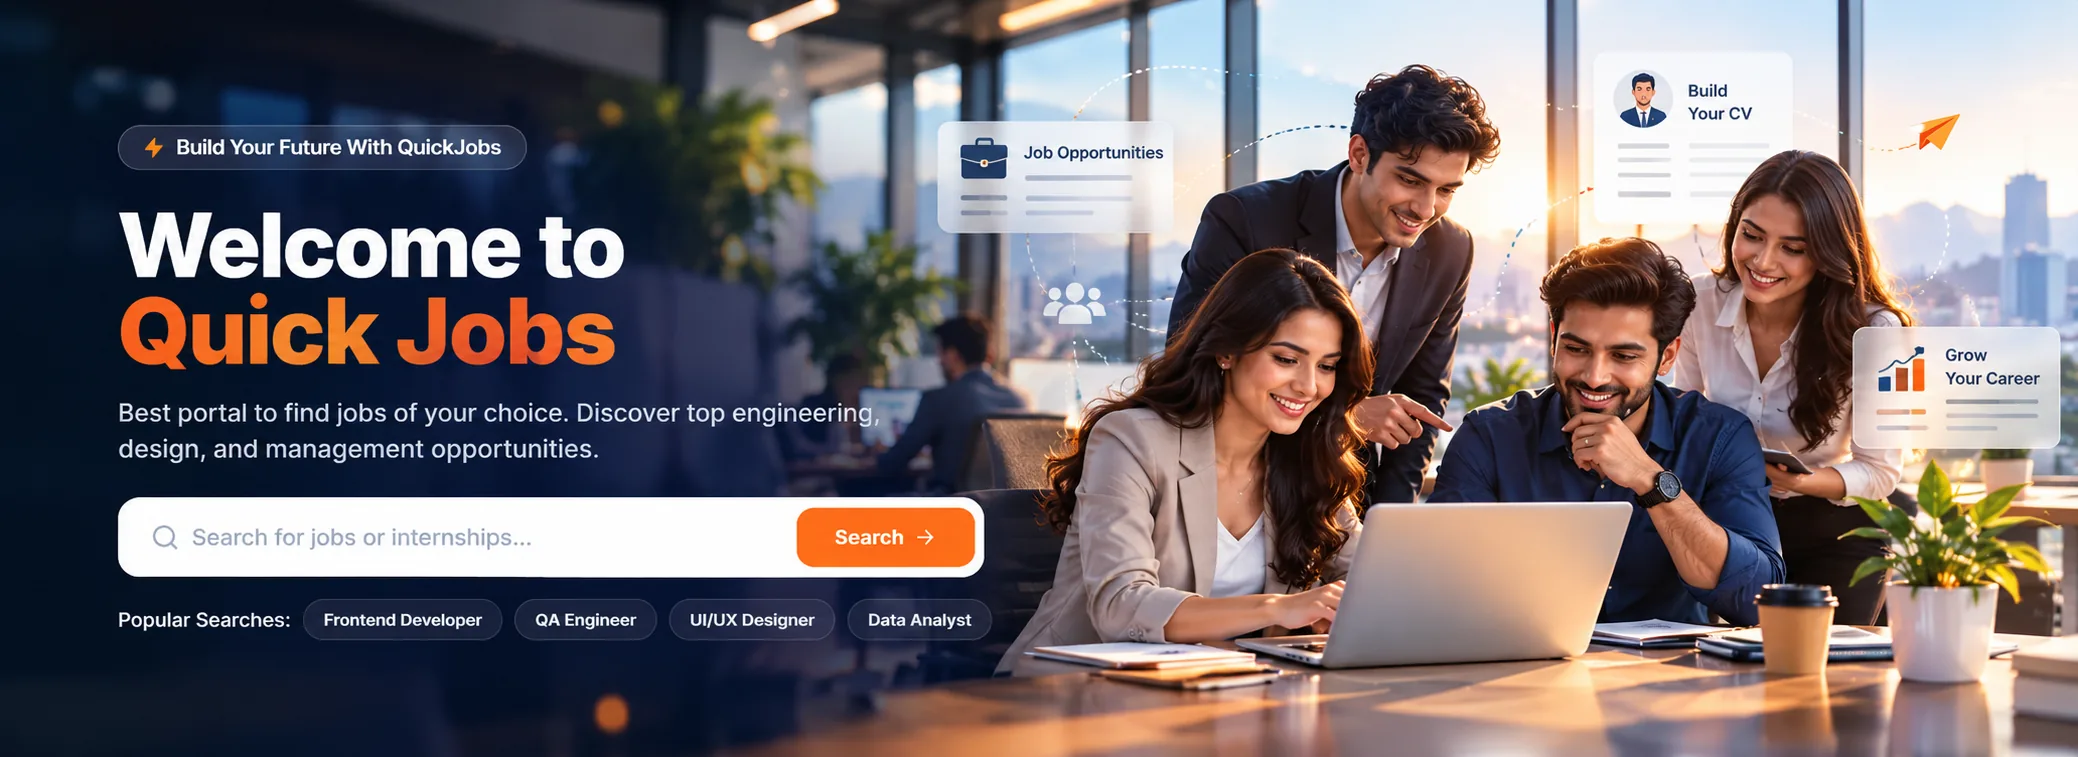
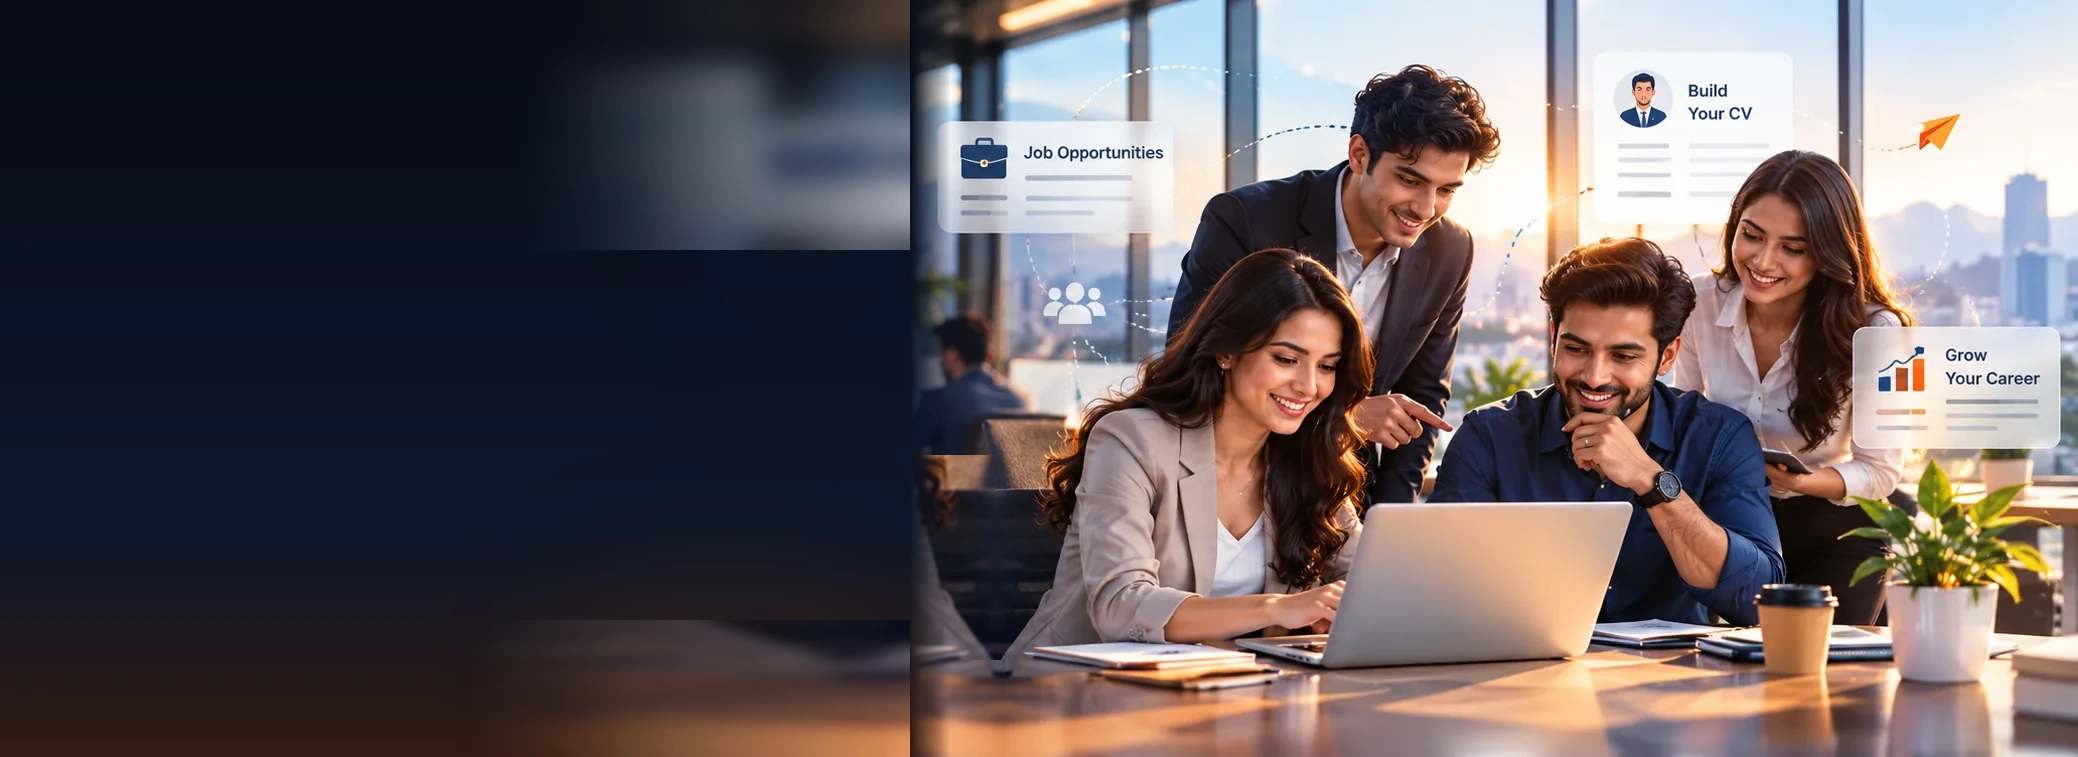
Use register visual in login page, polish auth UI, and clean hero background

Changed region(s): [[0.0, 0.0, 0.4928, 1.0]]

diff --git a/frontend/src/components/auth/Login.tsx b/frontend/src/components/auth/Login.tsx
@@ -7,18 +7,13 @@ import {
   Lock, 
   ArrowRight, 
   Loader2, 
-  Sparkles, 
-  CheckCircle2,
-  Building2
 } from 'lucide-react';
+import registerVisual from '../../assets/authImages/registerVisual.png';
 import googleIcon from '../../assets/authImages/google.png';
 import Logo from '../../assets/quickjobs.png';
 import { loginUser } from './authApi/authApi';
 
 const API_BASE_URL = import.meta.env.VITE_API_BASE_URL || 'https://qj.onrender.com';
-
-// Professional Unsplash Workspace Image
-const PROFESSIONAL_BG_IMAGE = 'https://images.unsplash.com/photo-1522071820081-009f0129c71c?q=80&w=1200&auto=format&fit=crop';
 
 const Login: React.FC = () => {
   const navigate = useNavigate();
@@ -40,9 +35,6 @@ const Login: React.FC = () => {
       const response = await loginUser(formData);
 
       localStorage.setItem('token', response.token);
-      // Sidebar shows the logged-in admin's email (see useAdminAuth.ts) —
-      // the JWT itself only carries {id, role}, not email/name, so those
-      // need to be captured here from the login response body instead.
       if (response.email) localStorage.setItem('adminEmail', response.email);
       if (response.name) localStorage.setItem('adminName', response.name);
       window.dispatchEvent(new Event('authChange'));
@@ -99,65 +91,42 @@ const Login: React.FC = () => {
       
       {/* Subtle Background Glows */}
       <div className="absolute inset-0 overflow-hidden pointer-events-none z-0">
-        <div className="absolute top-1/4 -left-20 w-80 h-80 bg-amber-600/15 rounded-full blur-[120px]" />
+        <div className="absolute top-1/4 -left-20 w-80 h-80 bg-orange-600/15 rounded-full blur-[130px]" />
         <div className="absolute bottom-10 right-0 w-96 h-96 bg-blue-600/15 rounded-full blur-[140px]" />
         <div className="absolute inset-0 bg-[linear-gradient(to_right,#1e293b12_1px,transparent_1px),linear-gradient(to_bottom,#1e293b12_1px,transparent_1px)] bg-[size:3rem_3rem] [mask-image:radial-gradient(ellipse_60%_50%_at_50%_50%,#000_70%,transparent_100%)]" />
       </div>
 
       {/* Main Glassmorphism Form Card */}
-      <div className="relative z-10 w-full max-w-4xl bg-slate-900/80 backdrop-blur-2xl border border-slate-800/80 rounded-[24px] shadow-2xl shadow-black/80 overflow-hidden flex flex-col md:flex-row my-auto">
+      <div className="relative z-10 w-full max-w-5xl bg-[#0d131f]/90 backdrop-blur-2xl border border-slate-800/80 rounded-[28px] shadow-2xl shadow-black/80 overflow-hidden flex flex-col lg:flex-row my-auto">
         
-        {/* Left Column (Hero Image & Badge) */}
-        <div className="hidden md:flex md:w-[45%] relative overflow-hidden border-r border-slate-800/80 flex-col justify-between p-6 lg:p-8">
-          
-          <img
-            src={PROFESSIONAL_BG_IMAGE}
-            alt="Modern Workspace"
-            className="absolute inset-0 w-full h-full object-cover object-center transition-transform duration-700 hover:scale-105"
-          />
-
-          <div className="absolute inset-0 bg-gradient-to-t from-[#0B0F17] via-[#0B0F17]/70 to-[#0B0F17]/30 z-10" />
-
-          {/* Top Badge */}
-          <div className="relative z-20 flex items-center">
-            <div className="inline-flex items-center gap-2 px-3 py-1 rounded-full bg-slate-900/90 border border-slate-700/60 text-xs font-semibold text-slate-200 backdrop-blur-md shadow-md">
-              <Sparkles size={13} className="text-amber-400" />
-              <span>Next-Gen Job Platform</span>
-            </div>
-          </div>
-
-          {/* Bottom Card */}
-          <div className="relative z-20 space-y-3">
-            <div className="p-3.5 rounded-xl bg-slate-900/90 border border-slate-800/90 backdrop-blur-md shadow-xl space-y-1.5">
-              <div className="flex items-center gap-1.5 text-emerald-400 font-semibold text-[11px] tracking-wider uppercase">
-                <CheckCircle2 size={14} />
-                <span>Verified Ecosystem</span>
-              </div>
-              <p className="text-xs font-medium text-slate-200 leading-relaxed">
-                Connecting top talent with world-class employers everyday.
-              </p>
-            </div>
-
-            <div className="flex items-center gap-2 text-xs text-slate-400 px-1 font-medium">
-              <Building2 size={13} className="text-amber-500" />
-              <span>500+ Hiring Partners</span>
-            </div>
+        {/* Left Column (Exact Same Image as Registration Page) */}
+        <div className="w-full lg:w-1/2 relative bg-[#070b12] flex flex-col justify-center items-center p-4 sm:p-6 lg:p-7 border-b lg:border-b-0 lg:border-r border-slate-800/80">
+          <div className="relative w-full max-w-[480px] flex items-center justify-center rounded-2xl overflow-hidden shadow-2xl group">
+            <img
+              src={registerVisual}
+              alt="Join QuickJobs - Unlock Career Opportunities"
+              className="w-full h-auto object-contain rounded-2xl transition-transform duration-500 group-hover:scale-[1.01]"
+              loading="eager"
+            />
+            {/* Ambient backlight glow */}
+            <div className="absolute -inset-2 rounded-2xl bg-gradient-to-tr from-orange-500/10 via-amber-500/5 to-transparent blur-xl pointer-events-none -z-10" />
           </div>
         </div>
 
         {/* Right Column (Form Details) */}
-        <div className="w-full md:w-[55%] p-6 sm:p-8 flex flex-col justify-center bg-[#0d131f]/70">
+        <div className="w-full lg:w-1/2 p-6 sm:p-8 lg:p-10 flex flex-col justify-center bg-[#0d131f]/95">
           
           {/* Logo & Subtitle */}
-          <div className="mb-6 text-center sm:text-left flex flex-col items-center sm:items-start">
-            <div className="inline-block p-2 rounded-xl bg-slate-900 border border-slate-800 mb-3 shadow-md">
-              <img className="h-8 w-auto object-contain" src={Logo} alt="QuickJobs Logo" />
+          <div className="mb-6 text-left">
+            <div className="inline-flex items-center gap-2 px-3 py-1.5 rounded-xl bg-slate-900/90 border border-slate-800 mb-3 shadow-sm">
+              <img className="h-6 w-auto object-contain" src={Logo} alt="QuickJobs Logo" />
+              <span className="text-xs font-bold text-white tracking-wide">QuickJobs</span>
             </div>
             
-            <h1 className="text-xl sm:text-2xl font-extrabold tracking-tight text-white">
+            <h1 className="text-2xl sm:text-3xl font-extrabold tracking-tight text-white">
               Welcome back
             </h1>
-            <p className="text-xs text-slate-400 mt-1">
+            <p className="text-xs sm:text-sm text-slate-400 mt-1">
               Please enter your credentials to access your account.
             </p>
           </div>
@@ -171,8 +140,8 @@ const Login: React.FC = () => {
                 Email Address
               </label>
               <div className="relative group">
-                <div className="absolute inset-y-0 left-0 pl-3 flex items-center pointer-events-none text-slate-400 group-focus-within:text-amber-500 transition-colors">
-                  <Mail size={16} />
+                <div className="absolute inset-y-0 left-0 pl-3.5 flex items-center pointer-events-none text-slate-400 group-focus-within:text-orange-500 transition-colors">
+                  <Mail size={17} />
                 </div>
                 <input
                   type="email"
@@ -180,8 +149,8 @@ const Login: React.FC = () => {
                   name="email"
                   value={formData.email}
                   onChange={handleChange}
-                  className="w-full bg-slate-950/80 border border-slate-700/80 text-white placeholder-slate-500 text-xs sm:text-sm rounded-xl pl-9 pr-3 py-2.5 focus:outline-none focus:border-amber-500 focus:ring-1 focus:ring-amber-500/30 transition-all"
-                  placeholder="name@company.com"
+                  className="w-full bg-slate-950/80 border border-slate-800 text-white placeholder-slate-500 text-xs sm:text-sm rounded-xl pl-10 pr-3.5 py-2.5 sm:py-3 focus:outline-none focus:border-orange-500 focus:ring-1 focus:ring-orange-500/30 transition-all"
+                  placeholder="name@example.com"
                   required
                 />
               </div>
@@ -193,8 +162,8 @@ const Login: React.FC = () => {
                 Password
               </label>
               <div className="relative group">
-                <div className="absolute inset-y-0 left-0 pl-3 flex items-center pointer-events-none text-slate-400 group-focus-within:text-amber-500 transition-colors">
-                  <Lock size={16} />
+                <div className="absolute inset-y-0 left-0 pl-3.5 flex items-center pointer-events-none text-slate-400 group-focus-within:text-orange-500 transition-colors">
+                  <Lock size={17} />
                 </div>
                 <input
                   type={showPassword ? 'text' : 'password'}
@@ -203,13 +172,13 @@ const Login: React.FC = () => {
                   value={formData.password}
                   onChange={handleChange}
                   placeholder="••••••••"
-                  className="w-full bg-slate-950/80 border border-slate-700/80 text-white placeholder-slate-500 text-xs sm:text-sm rounded-xl pl-9 pr-9 py-2.5 focus:outline-none focus:border-amber-500 focus:ring-1 focus:ring-amber-500/30 transition-all"
+                  className="w-full bg-slate-950/80 border border-slate-800 text-white placeholder-slate-500 text-xs sm:text-sm rounded-xl pl-10 pr-10 py-2.5 sm:py-3 focus:outline-none focus:border-orange-500 focus:ring-1 focus:ring-orange-500/30 transition-all"
                   required
                 />
                 <button
                   type="button"
                   onClick={() => setShowPassword(!showPassword)}
-                  className="absolute inset-y-0 right-0 pr-3 flex items-center text-slate-400 hover:text-slate-200 transition-colors focus:outline-none"
+                  className="absolute inset-y-0 right-0 pr-3 flex items-center text-slate-400 hover:text-slate-200 transition-colors focus:outline-none cursor-pointer"
                   aria-label="Toggle password visibility"
                 >
                   {showPassword ? <EyeOff size={16} /> : <Eye size={16} />}
@@ -223,7 +192,7 @@ const Login: React.FC = () => {
                 <input
                   type="checkbox"
                   id="remember"
-                  className="w-3.5 h-3.5 rounded bg-slate-950 border-slate-700 text-amber-600 focus:ring-amber-500 focus:ring-offset-slate-900 transition"
+                  className="w-3.5 h-3.5 rounded bg-slate-950 border-slate-800 text-orange-500 focus:ring-orange-500 focus:ring-offset-slate-900 transition cursor-pointer"
                 />
                 <span className="ml-2">Remember me</span>
               </label>
@@ -231,7 +200,7 @@ const Login: React.FC = () => {
               <button
                 type="button"
                 onClick={() => navigate('/forgot-password')}
-                className="font-medium text-amber-500 hover:text-amber-400 hover:underline transition-all focus:outline-none"
+                className="font-medium text-orange-400 hover:text-orange-300 hover:underline transition-all focus:outline-none cursor-pointer"
               >
                 Forgot password?
               </button>
@@ -248,7 +217,7 @@ const Login: React.FC = () => {
             <button
               type="submit"
               disabled={isLoading}
-              className="relative group w-full overflow-hidden rounded-xl bg-amber-600 hover:bg-amber-500 text-white font-semibold py-2.5 px-4 text-xs sm:text-sm shadow-md shadow-amber-600/20 transition-all active:scale-[0.99] disabled:opacity-70 disabled:cursor-not-allowed"
+              className="relative group w-full overflow-hidden rounded-xl bg-gradient-to-r from-orange-500 to-amber-600 hover:from-orange-600 hover:to-amber-500 text-white font-bold py-2.5 sm:py-3 px-4 text-xs sm:text-sm shadow-lg shadow-orange-500/25 transition-all active:scale-[0.99] disabled:opacity-70 disabled:cursor-not-allowed cursor-pointer"
             >
               <div className="relative flex items-center justify-center gap-2">
                 {isLoading ? (
@@ -259,7 +228,7 @@ const Login: React.FC = () => {
                 ) : (
                   <>
                     <span>Sign In</span>
-                    <ArrowRight size={15} className="transition-transform duration-200 group-hover:translate-x-1" />
+                    <ArrowRight size={16} className="transition-transform duration-200 group-hover:translate-x-1" />
                   </>
                 )}
               </div>
@@ -279,7 +248,7 @@ const Login: React.FC = () => {
             <button
               type="button"
               onClick={handleGoogleSignIn}
-              className="w-full bg-slate-950/90 hover:bg-slate-800/80 text-slate-200 font-medium py-2.5 px-4 rounded-xl border border-slate-700/80 hover:border-slate-600 transition-all flex items-center justify-center gap-2.5 text-xs sm:text-sm shadow-sm active:scale-[0.99] focus:outline-none"
+              className="w-full bg-slate-950/90 hover:bg-slate-900 text-slate-200 font-medium py-2.5 sm:py-3 px-4 rounded-xl border border-slate-800 hover:border-slate-700 transition-all flex items-center justify-center gap-2.5 text-xs sm:text-sm shadow-sm active:scale-[0.99] focus:outline-none cursor-pointer"
             >
               <img src={googleIcon} alt="Google Logo" className="h-4 w-4 object-contain" />
               <span>Sign in with Google</span>
@@ -289,7 +258,7 @@ const Login: React.FC = () => {
           {/* Footer Signup Link */}
           <p className="mt-6 text-center text-xs text-slate-400">
             Don't have an account?{' '}
-            <Link to="/signup" className="text-amber-500 hover:text-amber-400 font-semibold hover:underline transition-all">
+            <Link to="/signup" className="text-orange-400 hover:text-orange-300 font-semibold hover:underline transition-all">
               Sign up
             </Link>
           </p>

diff --git a/frontend/src/components/auth/Signup.tsx b/frontend/src/components/auth/Signup.tsx
@@ -162,16 +162,16 @@ const Signup: React.FC = () => {
       <div className="relative z-10 w-full max-w-5xl bg-[#0d131f]/90 backdrop-blur-2xl border border-slate-800/80 rounded-[28px] shadow-2xl shadow-black/80 overflow-hidden flex flex-col lg:flex-row my-auto">
         
         {/* Left Visual Column */}
-        <div className="w-full lg:w-1/2 relative bg-[#080c14] flex flex-col justify-center items-center p-4 sm:p-6 lg:p-7 border-b lg:border-b-0 lg:border-r border-slate-800/80">
-          <div className="relative w-full flex items-center justify-center rounded-2xl overflow-hidden bg-slate-950/80 border border-slate-800/90 shadow-2xl p-1 sm:p-2 group">
+        <div className="w-full lg:w-1/2 relative bg-[#070b12] flex flex-col justify-center items-center p-4 sm:p-6 lg:p-7 border-b lg:border-b-0 lg:border-r border-slate-800/80">
+          <div className="relative w-full max-w-[480px] flex items-center justify-center rounded-2xl overflow-hidden shadow-2xl group">
             <img
               src={registerVisual}
               alt="Join QuickJobs - Unlock Career Opportunities"
-              className="w-full h-auto max-h-[640px] object-contain rounded-xl shadow-lg transition-transform duration-500 group-hover:scale-[1.01]"
+              className="w-full h-auto object-contain rounded-2xl transition-transform duration-500 group-hover:scale-[1.01]"
               loading="eager"
             />
-            {/* Subtle inner border glow */}
-            <div className="absolute inset-0 pointer-events-none rounded-2xl ring-1 ring-inset ring-white/10" />
+            {/* Ambient backlight glow */}
+            <div className="absolute -inset-2 rounded-2xl bg-gradient-to-tr from-orange-500/10 via-amber-500/5 to-transparent blur-xl pointer-events-none -z-10" />
           </div>
         </div>
 
@@ -179,8 +179,9 @@ const Signup: React.FC = () => {
         <div className="w-full lg:w-1/2 p-6 sm:p-8 lg:p-10 flex flex-col justify-center bg-[#0d131f]/95">
           {/* Logo & Heading */}
           <div className="mb-5 text-left">
-            <div className="inline-block p-1.5 rounded-xl bg-slate-900 border border-slate-800 mb-3 shadow-sm">
-              <img className="h-7 w-auto object-contain" src={Logo} alt="QuickJobs Logo" />
+            <div className="inline-flex items-center gap-2 px-3 py-1.5 rounded-xl bg-slate-900/90 border border-slate-800 mb-3 shadow-sm">
+              <img className="h-6 w-auto object-contain" src={Logo} alt="QuickJobs Logo" />
+              <span className="text-xs font-bold text-white tracking-wide">QuickJobs</span>
             </div>
             <h1 className="text-2xl sm:text-3xl font-extrabold tracking-tight text-white">
               Create your account
